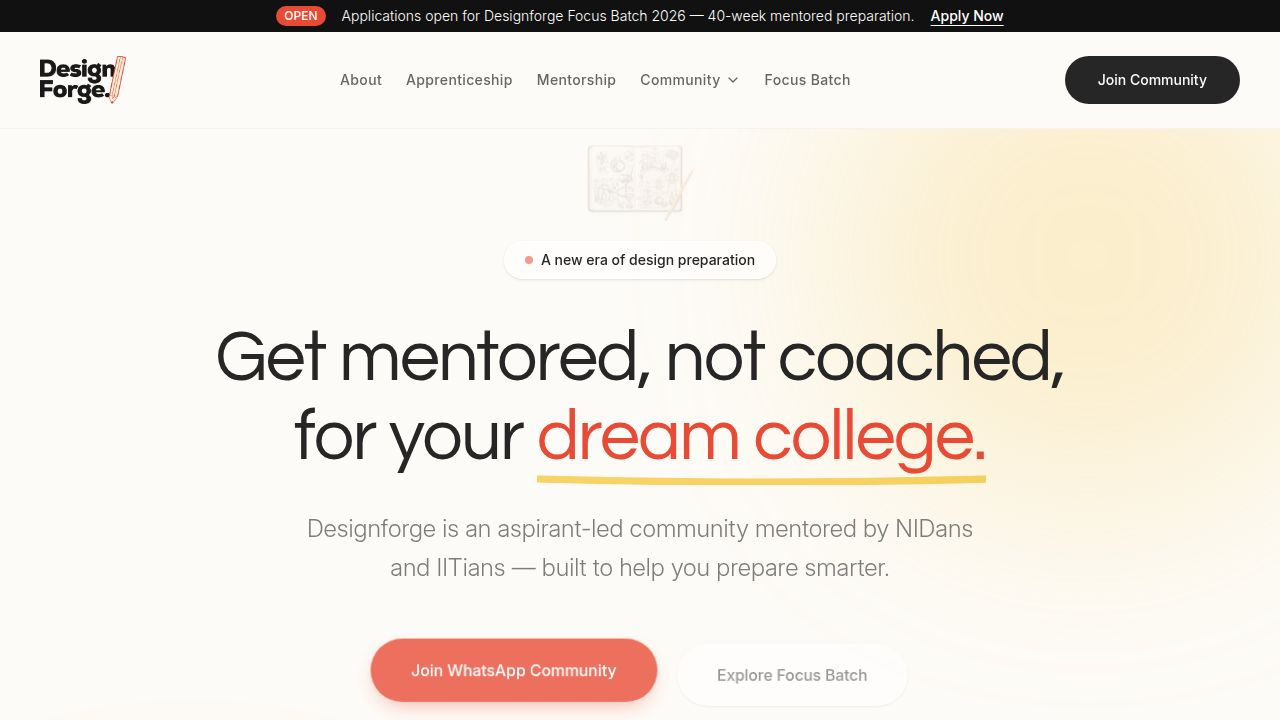
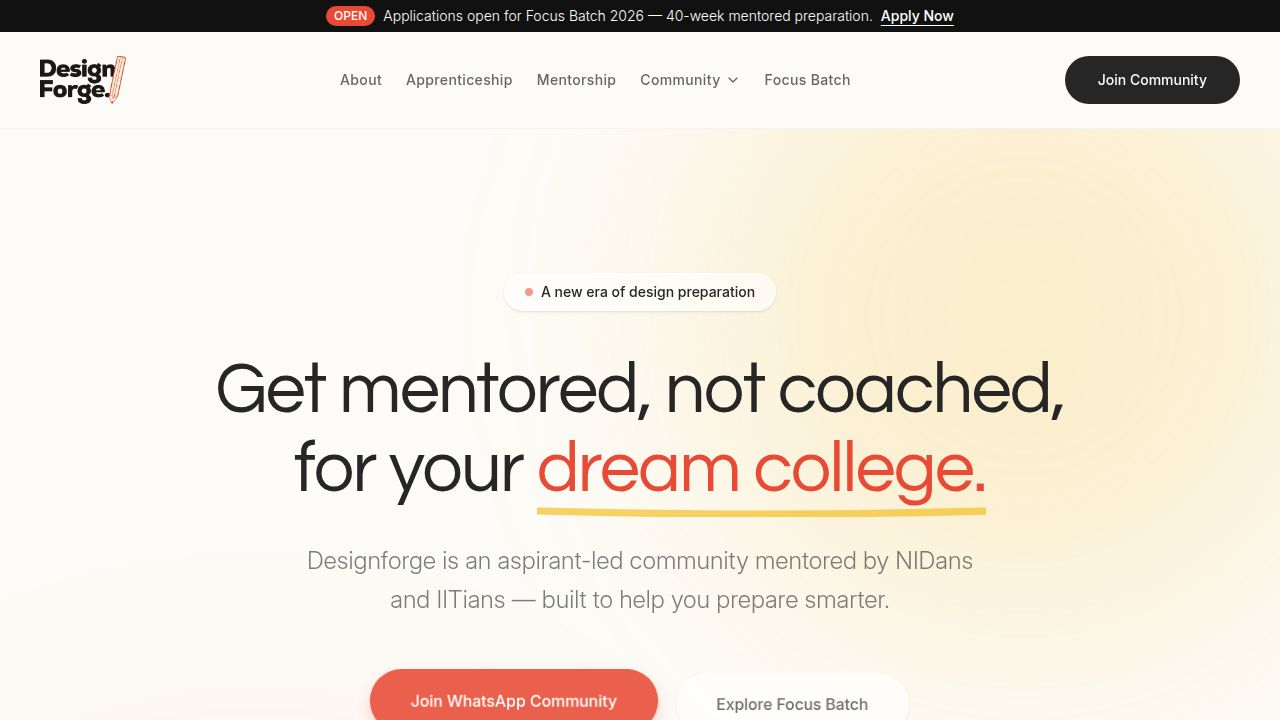
Adjust card appearance and spacing in the hero section
Reduce background gradient size and opacity, and apply unique rotations and vertical offsets to hero cards with hover effects.

Replit-Commit-Author: Agent
Replit-Commit-Session-Id: 960f950a-f001-4535-bbb8-647dbf1b26bf
Replit-Commit-Checkpoint-Type: full_checkpoint
Replit-Commit-Event-Id: 1a63e06e-d3c9-44bb-88df-e90ba68e13dd
Replit-Commit-Screenshot-Url: https://storage.googleapis.com/screenshot-production-us-central1/c1ce08fc-52cc-4179-98a9-23c730016ee2/960f950a-f001-4535-bbb8-647dbf1b26bf/V5Qh8ep
Replit-Helium-Checkpoint-Created: true

diff --git a/client/src/components/hero.tsx b/client/src/components/hero.tsx
@@ -115,15 +115,15 @@ export function Hero() {
         <div className="hero-image-container w-full mt-24 relative flex justify-center z-20">
           <div className="hero-image relative w-full min-h-[400px] md:min-h-[500px] bg-white/40 backdrop-blur-2xl rounded-[2rem] md:rounded-[3rem] border border-white shadow-[0_20px_60px_-15px_rgba(0,0,0,0.05)] overflow-hidden flex items-center justify-center p-6 md:p-12">
             
-            {/* Abstract fluid shapes inside the glass container - Enlarged for bigger gradients */}
-            <div className="shape-1 organic-blob absolute top-[-10%] left-[-5%] w-72 h-72 md:w-[35rem] md:h-[35rem] bg-pop-1/80 mix-blend-multiply filter blur-3xl opacity-70"></div>
-            <div className="shape-2 organic-blob absolute bottom-[-10%] right-[-5%] w-80 h-80 md:w-[40rem] md:h-[40rem] bg-pop-2/60 mix-blend-multiply filter blur-3xl opacity-70"></div>
-            <div className="shape-3 organic-blob absolute top-1/4 left-1/4 w-96 h-96 md:w-[45rem] md:h-[45rem] bg-pop-3/60 mix-blend-multiply filter blur-3xl opacity-70"></div>
+            {/* Abstract fluid shapes inside the glass container - Reduced scale and opacity */}
+            <div className="shape-1 organic-blob absolute top-[10%] left-[5%] w-20 h-20 md:w-[9rem] md:h-[9rem] bg-pop-1/30 mix-blend-multiply filter blur-xl opacity-[22%]"></div>
+            <div className="shape-2 organic-blob absolute bottom-[10%] right-[5%] w-24 h-24 md:w-[10rem] md:h-[10rem] bg-pop-2/20 mix-blend-multiply filter blur-xl opacity-[22%]"></div>
+            <div className="shape-3 organic-blob absolute top-1/4 left-1/4 w-28 h-28 md:w-[11rem] md:h-[11rem] bg-pop-3/20 mix-blend-multiply filter blur-xl opacity-[22%]"></div>
 
             {/* Foreground crisp elements */}
-            <div className="relative z-10 grid grid-cols-1 sm:grid-cols-2 md:grid-cols-5 gap-4 md:gap-6 w-full">
+            <div className="relative z-10 grid grid-cols-1 sm:grid-cols-2 md:grid-cols-5 gap-4 md:gap-6 w-full mt-4 md:mt-8">
                
-               <div className="hero-card bg-white/95 backdrop-blur-xl rounded-3xl p-6 shadow-xl border border-black/5 flex flex-col items-center justify-center min-h-[220px]">
+               <div className="hero-card bg-white/95 backdrop-blur-xl rounded-3xl p-6 shadow-xl border border-black/5 flex flex-col items-center justify-center transform md:translate-y-4 md:-rotate-12 hover:rotate-0 hover:translate-y-0 transition-all duration-500 min-h-[220px]">
                   <div className="w-14 h-14 rounded-2xl bg-pop-1/10 flex items-center justify-center mb-4">
                      <svg className="w-7 h-7 text-pop-1" viewBox="0 0 24 24" fill="none" stroke="currentColor" strokeWidth="2.5"><path d="M12 2v20M17 5H9.5a3.5 3.5 0 0 0 0 7h5a3.5 3.5 0 0 1 0 7H6"/></svg>
                   </div>
@@ -131,7 +131,7 @@ export function Hero() {
                   <p className="text-xs text-foreground/60 text-center">Focus on creating real impact</p>
                </div>
                
-               <div className="hero-card bg-white/95 backdrop-blur-xl rounded-3xl p-6 shadow-xl border border-black/5 flex flex-col items-center justify-center md:translate-y-6 min-h-[220px]">
+               <div className="hero-card bg-white/95 backdrop-blur-xl rounded-3xl p-6 shadow-xl border border-black/5 flex flex-col items-center justify-center transform md:-translate-y-12 md:rotate-6 hover:rotate-0 hover:-translate-y-16 transition-all duration-500 min-h-[220px]">
                   <div className="w-14 h-14 rounded-2xl bg-pop-2/10 flex items-center justify-center mb-4">
                      <svg className="w-7 h-7 text-pop-2" viewBox="0 0 24 24" fill="none" stroke="currentColor" strokeWidth="2.5"><circle cx="12" cy="12" r="10"/><path d="M12 16v-4"/><path d="M12 8h.01"/></svg>
                   </div>
@@ -139,7 +139,7 @@ export function Hero() {
                   <p className="text-xs text-foreground/60 text-center">Break traditional patterns</p>
                </div>
                
-               <div className="hero-card bg-white/95 backdrop-blur-xl rounded-3xl p-8 shadow-xl border border-black/5 flex flex-col items-center justify-center md:-translate-y-4 md:scale-105 z-20 min-h-[240px]">
+               <div className="hero-card bg-white/95 backdrop-blur-xl rounded-3xl p-8 shadow-xl border border-black/5 flex flex-col items-center justify-center transform md:translate-y-8 md:scale-110 md:-rotate-3 z-20 hover:scale-[1.15] hover:-translate-y-4 hover:rotate-0 transition-all duration-500 min-h-[240px]">
                   <div className="w-16 h-16 rounded-3xl bg-primary/10 flex items-center justify-center mb-5 rotate-6">
                      <svg className="w-8 h-8 text-primary -rotate-6" viewBox="0 0 24 24" fill="none" stroke="currentColor" strokeWidth="2.5"><path d="m12 3-1.912 5.813a2 2 0 0 1-1.275 1.275L3 12l5.813 1.912a2 2 0 0 1 1.275 1.275L12 21l1.912-5.813a2 2 0 0 1 1.275-1.275L21 12l-5.813-1.912a2 2 0 0 1-1.275-1.275L12 3Z"/></svg>
                   </div>
@@ -147,7 +147,7 @@ export function Hero() {
                   <p className="text-xs text-foreground/60 text-center">Mentorship over coaching</p>
                </div>
 
-               <div className="hero-card bg-white/95 backdrop-blur-xl rounded-3xl p-6 shadow-xl border border-black/5 flex flex-col items-center justify-center md:translate-y-6 min-h-[220px]">
+               <div className="hero-card bg-white/95 backdrop-blur-xl rounded-3xl p-6 shadow-xl border border-black/5 flex flex-col items-center justify-center transform md:-translate-y-16 md:rotate-12 hover:rotate-0 hover:-translate-y-20 transition-all duration-500 min-h-[220px]">
                   <div className="w-14 h-14 rounded-2xl bg-pop-3/10 flex items-center justify-center mb-4">
                      <svg className="w-7 h-7 text-pop-3" viewBox="0 0 24 24" fill="none" stroke="currentColor" strokeWidth="2.5"><path d="M12 2L2 7l10 5 10-5-10-5zM2 17l10 5 10-5M2 12l10 5 10-5"/></svg>
                   </div>
@@ -155,7 +155,7 @@ export function Hero() {
                   <p className="text-xs text-foreground/60 text-center">Depth beyond just exams</p>
                </div>
 
-               <div className="hero-card bg-white/95 backdrop-blur-xl rounded-3xl p-6 shadow-xl border border-black/5 flex flex-col items-center justify-center min-h-[220px]">
+               <div className="hero-card bg-white/95 backdrop-blur-xl rounded-3xl p-6 shadow-xl border border-black/5 flex flex-col items-center justify-center transform md:translate-y-2 md:-rotate-8 hover:rotate-0 hover:-translate-y-2 transition-all duration-500 min-h-[220px]">
                   <div className="w-14 h-14 rounded-2xl bg-orange-500/10 flex items-center justify-center mb-4">
                      <svg className="w-7 h-7 text-orange-500" viewBox="0 0 24 24" fill="none" stroke="currentColor" strokeWidth="2.5"><path d="M22 11.08V12a10 10 0 1 1-5.93-9.14"/><polyline points="22 4 12 14.01 9 11.01"/></svg>
                   </div>
